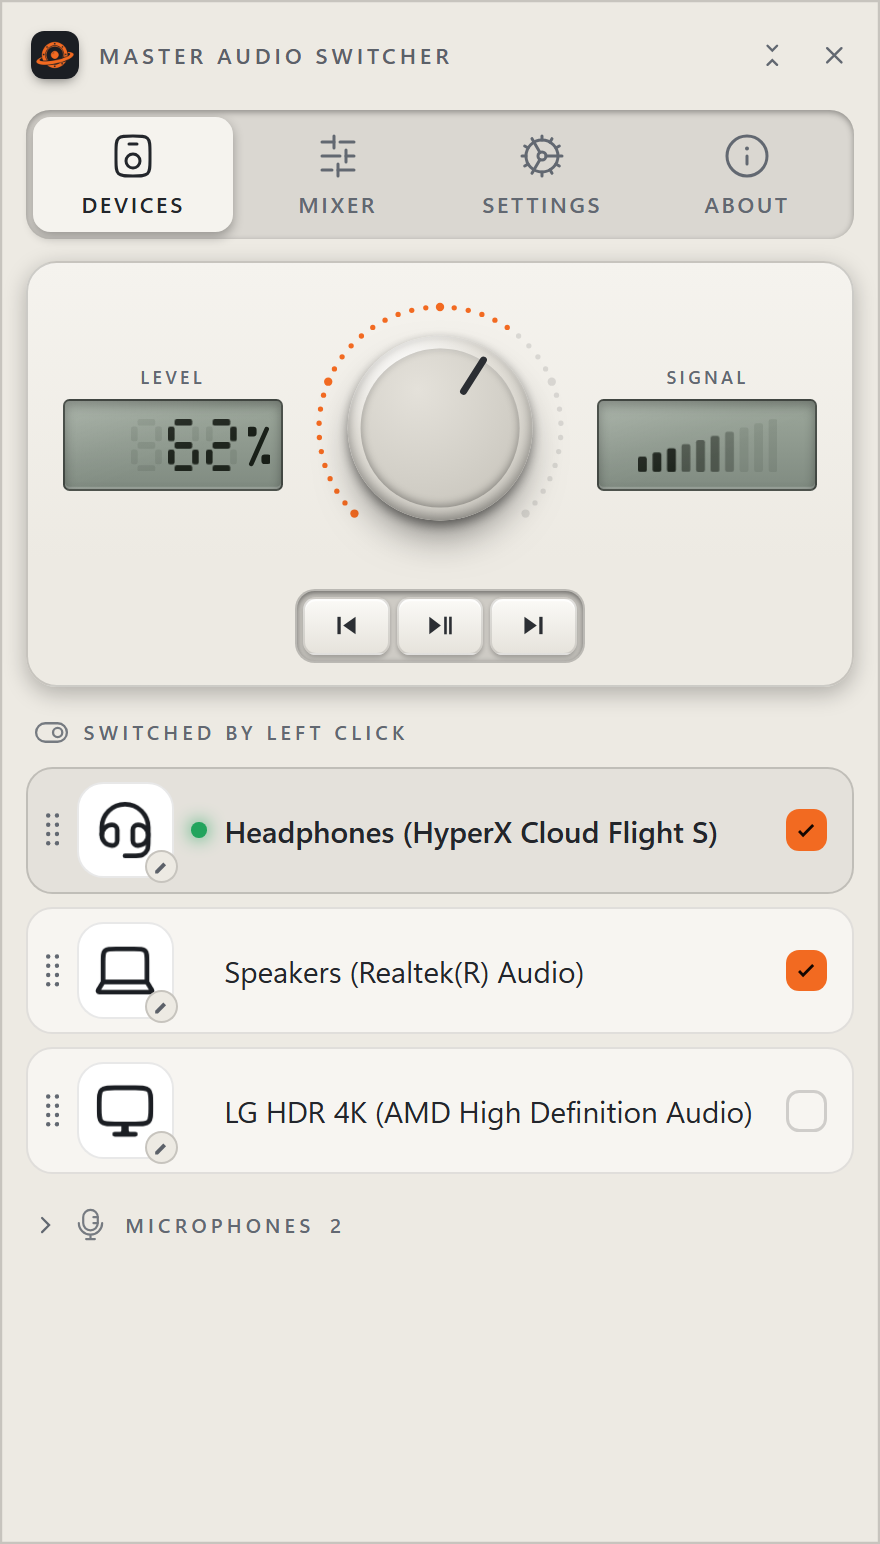
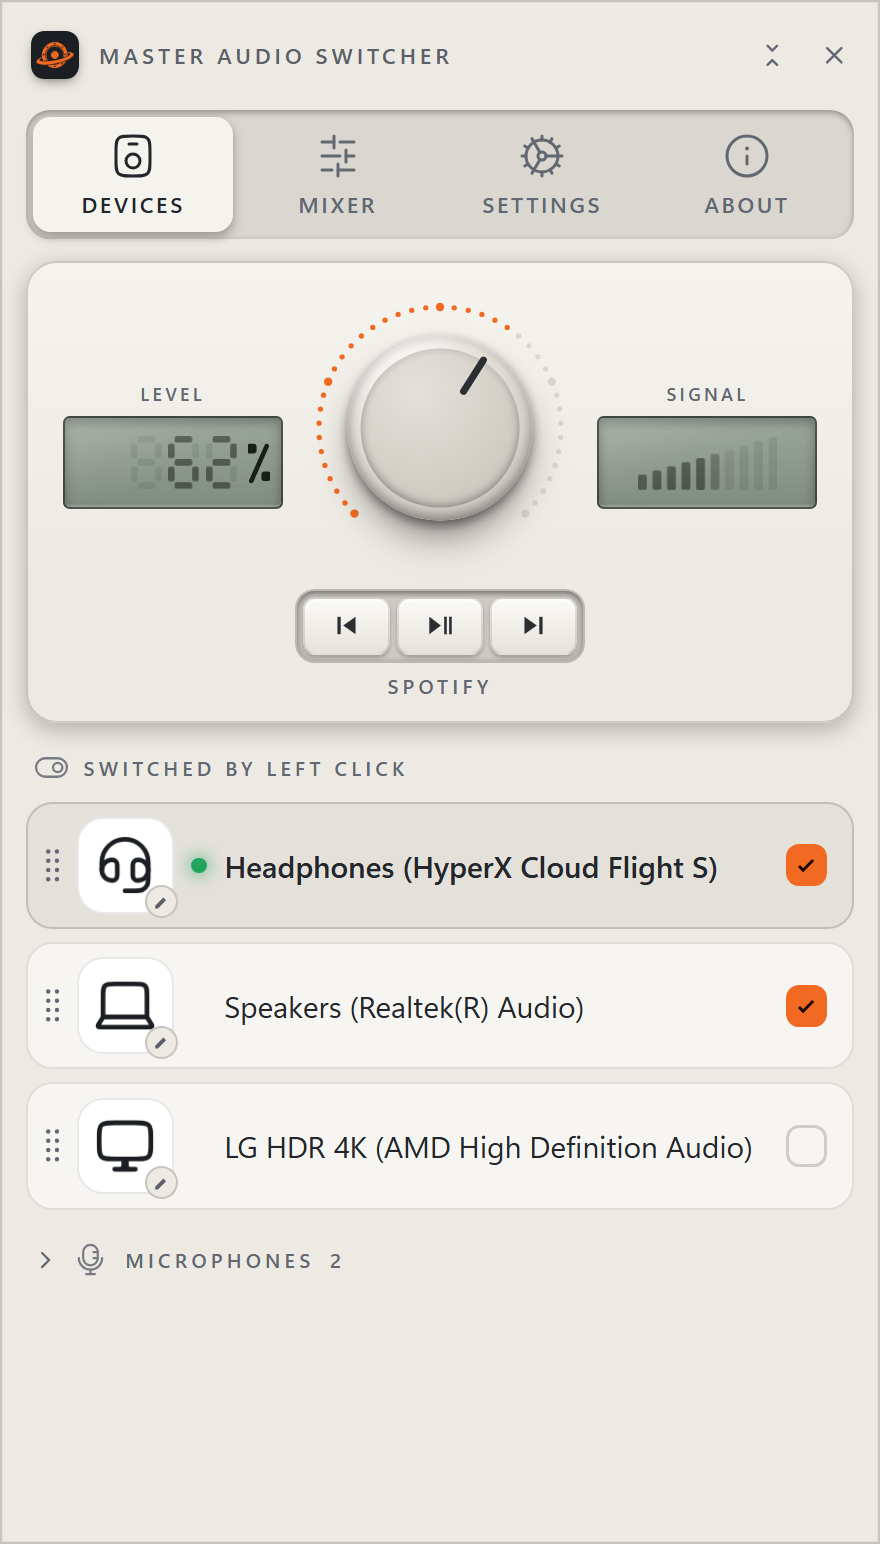
Show which player the keys are talking to
Reported twice as a bug: with no player nominated the commands still went to
Spotify. The log settles it — through the whole of that session the session list
read "play: Spotify[...]" and nothing else. Opera had no media session at all by
then, so there was nobody else to address. Reproduced the other way round with a
second live player: the first press went to the one playing, and after it was
paused the second press went to the other. The rule works.

So the defect was not the choice, it was that the choice is invisible. When the
only player Windows knows about is not the one in front of you, the keys look as
if they are ignoring you, and nothing on screen says otherwise. The panel now
carries the name of the player being addressed, under the keys, in the same
small type as LEVEL and SIGNAL. Empty when there is nobody.

Also fixed a break of my own making: the screenshot script clicked the shortcut
button by an id that stopped existing when both shortcuts moved to a shared
data attribute, so that screenshot had quietly stopped showing the capture.

diff --git a/src/mas/ui/app.css b/src/mas/ui/app.css
@@ -102,6 +102,11 @@ html.mini #btn-mini .to-full{display:block}
   border:1px solid var(--line-hi);
   box-shadow:inset 0 1px 0 rgba(255,255,255,.07),0 3px 10px rgba(0,0,0,.25)}
 .knobcol{display:flex;flex-direction:column;align-items:center;gap:8px;flex:none}
+/* The name of the player being controlled. A fixed height so that its coming and
+   going does not shift the keys above it — the panel must stand still. */
+.whom{height:11px;line-height:11px;margin-top:-3px;max-width:132px;
+  overflow:hidden;text-overflow:ellipsis;white-space:nowrap;text-align:center;
+  color:var(--tx-3)}
 
 /* ---------- player key block ---------- */
 /* Instrument logic: a rail recessed into the body holding three separate caps

diff --git a/src/mas/ui/app.js b/src/mas/ui/app.js
@@ -942,6 +942,10 @@ async function poll() {
       const track = [m.now.artist, m.now.title].filter(Boolean).join(' — ');
       if (!playBtn.dataset.tip) playBtn.dataset.tip = playBtn.title;
       playBtn.title = m.now.playing && track ? track : playBtn.dataset.tip;
+      // Which player the keys are talking to. It is the answer to "why do the
+      // buttons do something else than I expected": usually because the player
+      // in front of you is not the one Windows reports at all.
+      $('whom').textContent = m.now.app || '';
     }
 
     if (m.tab) openTab(m.tab === 'welcome' ? 'devices' : m.tab);

diff --git a/src/mas/ui/index.html b/src/mas/ui/index.html
@@ -81,6 +81,10 @@
           <svg viewBox="0 0 24 24" class="ti"><path d="M5.4 5.7 14.4 12l-9 6.3z"/><path d="M16.2 5.7h2.4v12.6h-2.4z"/></svg>
         </button>
       </div>
+      <!-- Who the keys are addressing. Without it the choice is invisible: when
+           the only player Windows knows about is not the one in front of you,
+           the keys look as though they are ignoring you. Empty when nobody. -->
+      <div class="whom micro" id="whom" aria-live="polite"></div>
     </div>
     <div class="lcdbox">
       <span class="micro lcdcap" data-t="lcd_signal">Signal</span>

diff --git a/tools/shots.py b/tools/shots.py
@@ -109,7 +109,9 @@ class FakeApi:
     def get_meter(self):
         return {"volume": 0.62, "muted": False, "peak": 0.22,
                 "device": "Headphones (HyperX Cloud Flight S)",
-                "tab": self.tab, "rev": 1}
+                "tab": self.tab, "rev": 1,
+                "now": {"app": "Spotify", "title": "Shiver", "artist": "Mannymore",
+                        "playing": True}}
 
     # --- what the interface tries to change ----------------------------
     def set_setting(self, key, value):
@@ -174,7 +176,8 @@ INJECT = """
   root.setProperty('--shot-w', (q.get('w') || 400) + 'px');
   root.setProperty('--shot-h', (q.get('h') || 702) + 'px');
   const act = q.get('act');
-  const wanted = { icons: '.row [data-act="icon"]', hotkey: '#hk-capture',
+  const wanted = { icons: '.row [data-act="icon"]',
+                   hotkey: '[data-capture="hotkey"]',
                    mini: '#btn-mini' }[act];
   if (!wanted) return;
   const tick = setInterval(() => {
